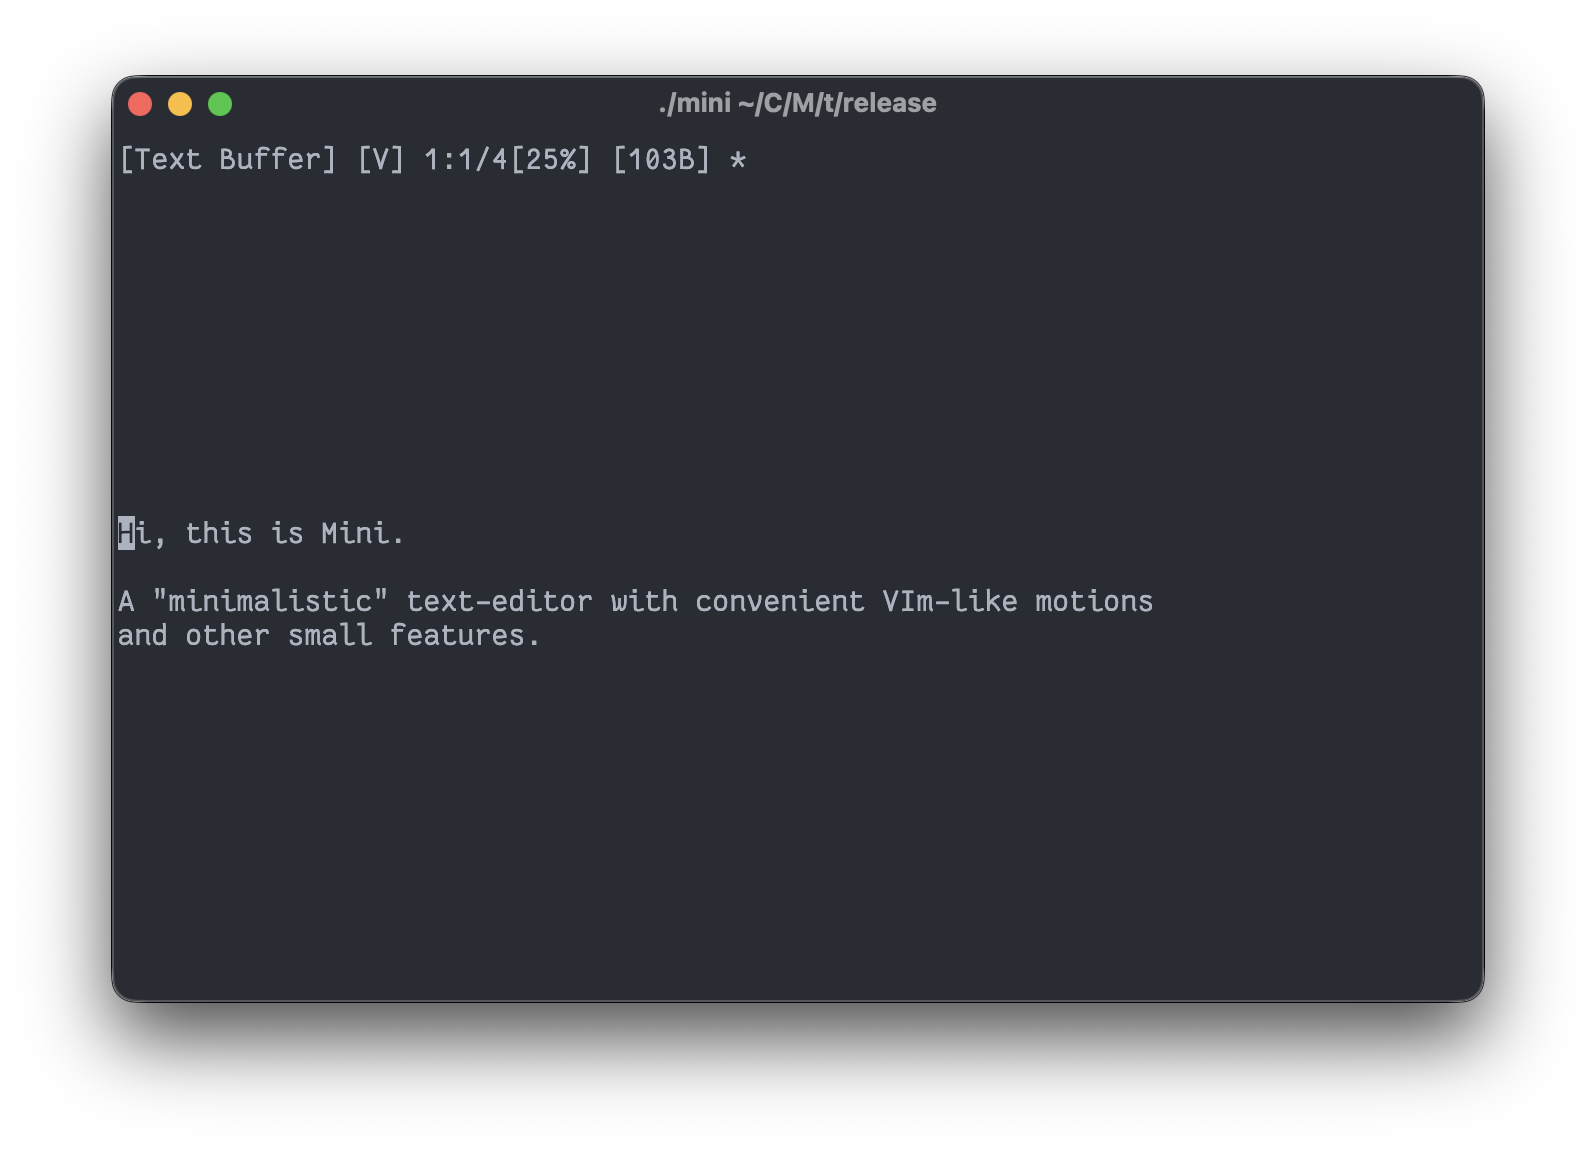
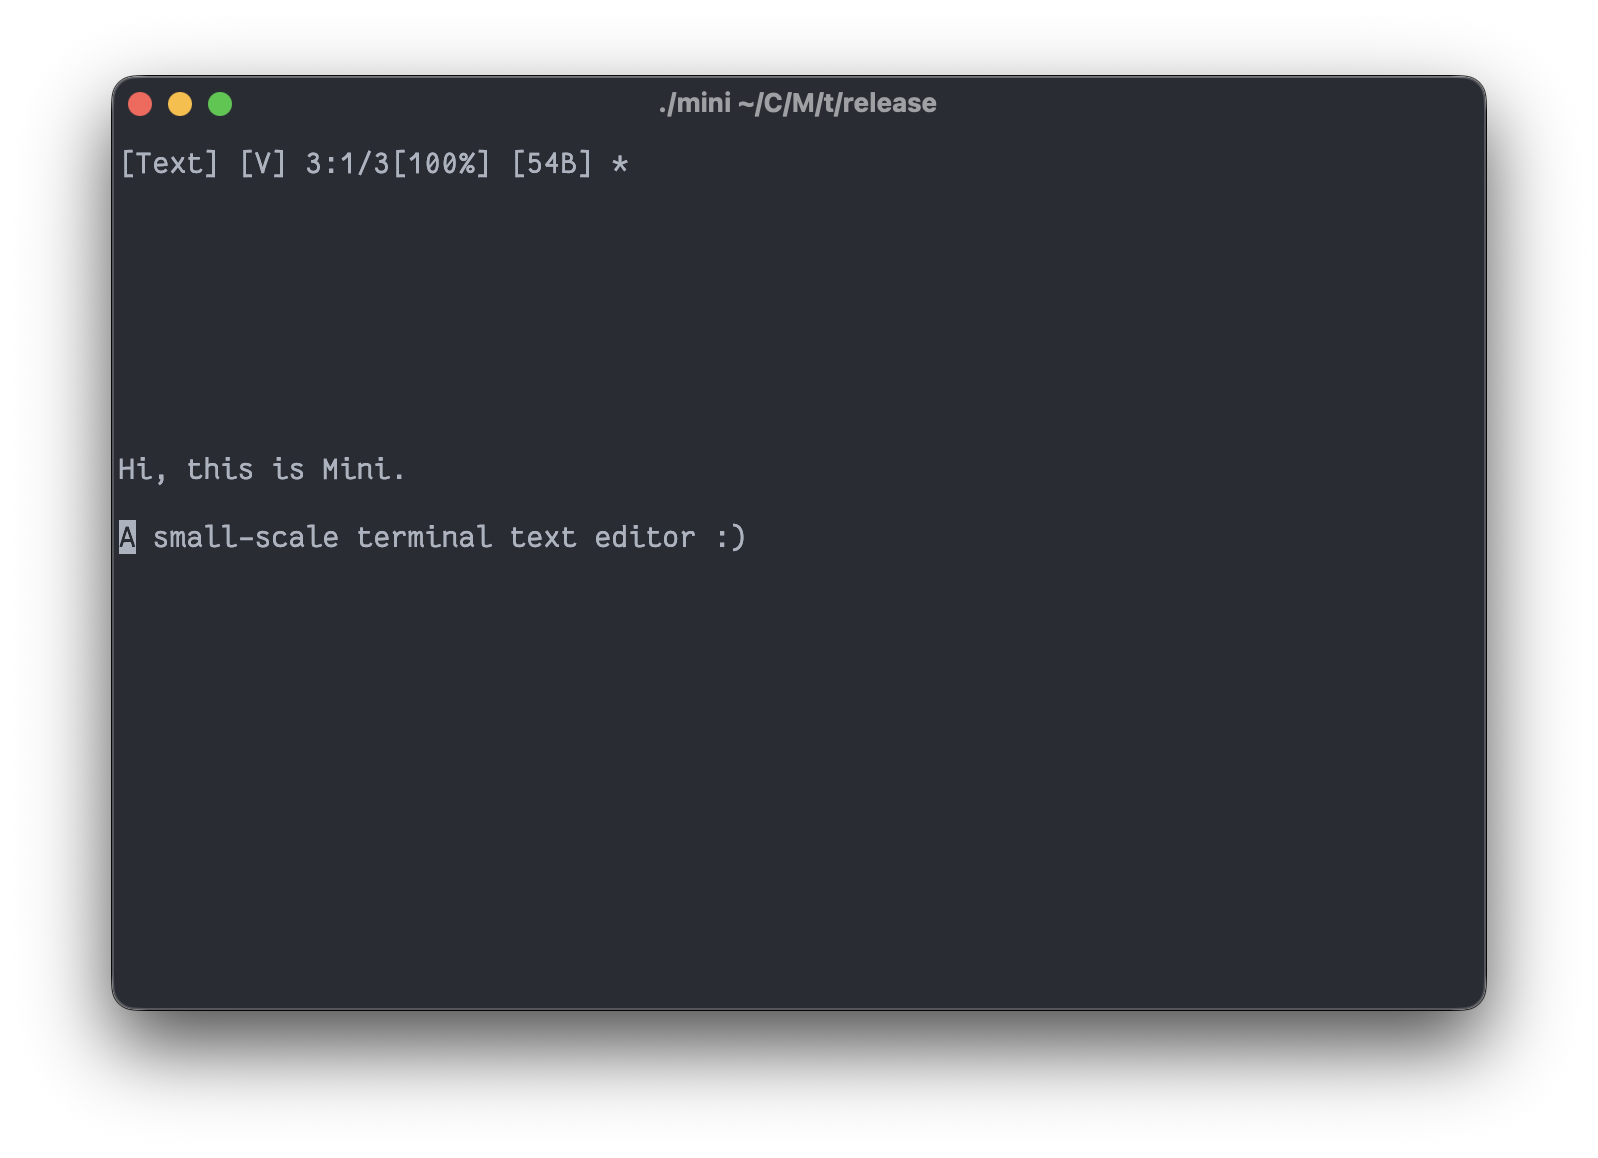
Improve info message and add inclusive deletion

diff --git a/src/main.rs b/src/main.rs
@@ -29,6 +29,51 @@ macro_rules! skip {
     }};
 }
 
+const INFO_BUFF: usize = 0;
+const TXT_BUFF: usize = 1;
+
+const INFO_MSG: &str = "Mini terminal text editor. Run it with a file(path) argument to open or create a file. Omit the file(path) to create a \"scratchpad\" buffer with no backing file.
+
+Motions:
+> Use motions to navigate the buffer. Type a number followed by a motion to execute it multiple times.
+- 'h' | 'j' | 'k' | 'l' to move the cursor
+- 'w' to skip to the next word
+- 'b' to go back one word
+- '<' | '>' to jump to the beginning/end of a line
+- '.' to jump to the matching opposite bracket
+- 'g' to go to the end of the file
+- 'G' to go to the start of the file
+
+Command Mode:
+> Issue commands to the editor using the command mode.
+Press space to enter command mode
+Press esc to exit command mode
+- 'q' to quit
+- '?' to see this message
+- 'w' to write the buffer to file
+- 'w <path>' to write this/all future writes to the specified path
+- 'o ?<path>' to open a file and replace the buffer (if the path is omitted a new \"scratchpad\" buffer with no backing file is created)
+- 'oo ?<path>' to open a file and replace the buffer, discarding unsaved changes (if the path is omitted a new \"scratchpad\" buffer with no backing file is created)
+
+Errors:
+> Display command errors.
+Press '?' to switch between the error and text buffer
+
+Selection:
+> Select text for deletion with the flexibility of all available motions.
+Press 'v' to start selection at the current cursor position, move the cursor using all available motions
+Press esc to stop selection
+- 'd' to delete the selection
+- 'D' to delete the selection including the character under the cursor
+
+Write Mode:
+> Insert text into the buffer.
+Press 'i' to enter write mode
+Press 'a' to enter write mode one character after the current
+Press 'o' to enter write mode one line under the current
+Press 'O' to enter write mode one line above the current
+Press 'esc' to exit write mode";
+
 #[allow(clippy::too_many_lines)]
 fn main() -> Result<(), std::io::Error> {
     let mut args = std::env::args();
@@ -36,36 +81,7 @@ fn main() -> Result<(), std::io::Error> {
 
     let mut file = if let Some(path) = args.next() {
         if path == "--help" {
-            println!(
-                " Mini terminal text editor, run with file(path) argument to open or create\n"
-            );
-            println!("   Type a number followed by a motion to execute it multiple times");
-            println!("   Press h | j | k | l to move the cursor");
-            println!("   Press w to skip to the next word");
-            println!("   Press b to go back one word");
-            println!("   Press < | > to jump to the beginning/end of a line");
-            println!("   Press . to jump to the matching opposite bracket");
-            println!("   Press e to switch between the error and text buffer");
-            println!("   Press space to enter command mode");
-            println!("     Write q to quit");
-            println!("     Write w to write the buffer to file");
-            println!("     Write w <path> to write this/all future writes to the specified path");
-            println!("     Write o <path> to open a file and replace the buffer");
-            println!(
-                "     Write oo <path> to open a file and replace the buffer, discarding unsaved changes"
-            );
-            println!("     Press esc to exit command mode");
-            println!("   Press v to start selection at the current cursor position");
-            println!("     Move cursor and press d to delete the selection");
-            println!("     Press esc to stop selection");
-            println!("   Press i to enter write mode");
-            println!("   Press a to enter write mode one character after the current");
-            println!("   Press o to enter write mode one line under the current");
-            println!("   Press O to enter write mode one line above the current");
-            println!("   Press g to go to the end of the file");
-            println!("   Press G to go to the start of the file");
-            println!("   Press esc to exit write mode");
-
+            println!("{INFO_MSG}");
             return Ok(());
         }
 
@@ -96,40 +112,40 @@ fn main() -> Result<(), std::io::Error> {
     // Init buffers
     let (width, height) = termion::terminal_size()?;
     let mut buffers = [
-        // Buffer 1 (Error)
+        // Buffer 1 (Info)
         Buffer::new(width as usize, height as usize, vec![String::new()], None),
-        // Buffer 2 (Default)
+        // Buffer 2 (Text)
         Buffer::new(width as usize, height as usize, line_buff, file),
     ];
-    let mut buffer = 1;
-    buffers[buffer].print_screen(&mut stdout, "Text Buffer")?;
+    let mut buffer = TXT_BUFF;
+    buffers[buffer].print_screen(&mut stdout, "Text")?;
 
     // Repeat buffer to execute motions multiple times
     let mut repeat_buff = String::new();
 
     for key in stdin.keys() {
         let (width, height) = termion::terminal_size()?;
-        for idx in 0..buffers.len() {
-            buffers[idx].update_screen_dimentions(width as usize, height as usize);
+        for buff in &mut buffers {
+            buff.update_screen_dimentions(width as usize, height as usize);
         }
 
         let key = key?;
         match buffers[buffer].mode() {
             Mode::View => match key {
                 // Can't edit error buffer
-                Key::Char('i') if buffer != 0 => buffers[buffer].change_mode(Mode::Write),
+                Key::Char('i') if buffer != INFO_BUFF => buffers[buffer].change_mode(Mode::Write),
                 // Can't edit error buffer
-                Key::Char('a') if buffer != 0 => {
+                Key::Char('a') if buffer != INFO_BUFF => {
                     buffers[buffer].move_cursor(CursorMove::Right, 1);
                     buffers[buffer].change_mode(Mode::Write);
                 }
                 // Can't edit error buffer
-                Key::Char('o') if buffer != 0 => {
+                Key::Char('o') if buffer != INFO_BUFF => {
                     buffers[buffer].insert_move_new_line_bellow();
                     buffers[buffer].change_mode(Mode::Write);
                 }
                 // Can't edit error buffer
-                Key::Char('O') if buffer != 0 => {
+                Key::Char('O') if buffer != INFO_BUFF => {
                     buffers[buffer].insert_move_new_line_above();
                     buffers[buffer].change_mode(Mode::Write);
                 }
@@ -145,15 +161,16 @@ fn main() -> Result<(), std::io::Error> {
                 Key::Char('g') => skip!(repeat_buff, buffers, buffer, jump_to_end),
                 Key::Char('G') => skip!(repeat_buff, buffers, buffer, jump_to_start),
                 // Can't command in error buffer
-                Key::Char(' ') if buffer != 0 => buffers[buffer].change_mode(Mode::Command),
-                Key::Char('e') if buffer == 0 => buffer = 1,
-                Key::Char('e') if buffer == 1 => buffer = 0,
+                Key::Char(' ') if buffer != INFO_BUFF => buffers[buffer].change_mode(Mode::Command),
+                Key::Char('?') if buffer == INFO_BUFF => buffer = TXT_BUFF,
+                Key::Char('?') if buffer == TXT_BUFF => buffer = INFO_BUFF,
                 Key::Char(ch) if ch.is_ascii_digit() => repeat_buff.push(ch),
                 // Can't select in error buffer
-                Key::Char('v') if buffer != 0 => buffers[buffer].set_select(),
+                Key::Char('v') if buffer != INFO_BUFF => buffers[buffer].set_select(),
                 Key::Esc => buffers[buffer].reset_select(),
                 // Can't delete in error buffer
-                Key::Char('d') if buffer != 0 => buffers[buffer].delete_selection(),
+                Key::Char('d') if buffer != INFO_BUFF => buffers[buffer].delete_selection(false),
+                Key::Char('D') if buffer != INFO_BUFF => buffers[buffer].delete_selection(true),
                 _ => {}
             },
             Mode::Write => match key {
@@ -178,28 +195,26 @@ fn main() -> Result<(), std::io::Error> {
 
                     match res {
                         util::CmdResult::Quit => break,
-                        util::CmdResult::Continue => {}
+                        // Reset error buffer on successful command
+                        util::CmdResult::Continue => buffers[INFO_BUFF].set_line_buff(""),
                         util::CmdResult::Error(err) => {
                             // Write error to error buffer
-                            buffer = 0;
+                            buffer = INFO_BUFF;
                             buffers[buffer].set_line_buff(&err);
                         }
                     }
                 }
                 Key::Char('\t') => buffers[buffer].write_cmd_tab(),
                 Key::Char(ch) => buffers[buffer].write_cmd_char(ch),
-                // Maybe support Delete key in the future
+                // TODO: support Delete key in the future
                 Key::Backspace => buffers[buffer].delete_cmd_char(),
                 _ => {}
             },
         }
 
         // Print new buffer after every input
-        if buffer == 0 {
-            buffers[buffer].print_screen(&mut stdout, "Error")?;
-        } else {
-            buffers[buffer].print_screen(&mut stdout, "Text Buffer")?;
-        }
+        let name = if buffer == INFO_BUFF { "Info" } else { "Text" };
+        buffers[buffer].print_screen(&mut stdout, name)?;
     }
 
     write!(stdout, "{ToMainScreen}")?;

diff --git a/src/buffer/edit.rs b/src/buffer/edit.rs
@@ -127,24 +127,28 @@ impl Buffer {
     }
 
     /// Deletes the text between the selection point and current cursor
-    pub fn delete_selection(&mut self) {
+    pub fn delete_selection(&mut self, inclusive: bool) {
         let Some(pos) = self.select else {
             return;
         };
 
-        let (start, end) = if pos <= self.txt_pos {
+        let (start, mut end) = if pos <= self.txt_pos {
             (pos, self.txt_pos)
         } else {
             (self.txt_pos, pos)
         };
 
+        if inclusive {
+            let line = &self.line_buff[end.y];
+            if end.x < line.chars().count() {
+                end.x += 1;
+            }
+        }
+
         if start.y == end.y {
             // Single line deletion
 
-            let Some(line) = self.line_buff.get_mut(start.y) else {
-                unreachable!("Impossible to not contain the requested line");
-            };
-
+            let line = &mut self.line_buff[start.y];
             let start_idx = line
                 .char_indices()
                 .nth(start.x)
@@ -159,9 +163,7 @@ impl Buffer {
             // Multiple lines were selected
 
             let (start_line, remaining_lines) = self.line_buff.split_at_mut(start.y + 1);
-            let Some(end_line) = remaining_lines.get(end.y - (start.y + 1)) else {
-                unreachable!("Impossible to not contain the requested line");
-            };
+            let end_line = &remaining_lines[end.y - (start.y + 1)];
             let tail = {
                 let start_idx = end_line
                     .char_indices()

diff --git a/src/buffer/print_screen.rs b/src/buffer/print_screen.rs
@@ -37,7 +37,7 @@ impl Buffer {
             Mode::Write => "W",
             Mode::Command => "C",
         };
-        let edited = if self.edited { '*' } else { ' ' };
+        // Plus 1 since text coordinates are 0 indexed
         let line = self.txt_pos.y + 1;
         let col = self.txt_pos.x + 1;
         let total = self.line_buff.len();
@@ -50,13 +50,16 @@ impl Buffer {
             "[{buff_name}] [{mode}] {line}:{col}/{total}[{percentage}%] [{size}B]",
         )?;
         if let Some(pos) = self.select {
+            // Plus 1 since text coordinates are 0 indexed
+            let line = pos.y + 1;
+            let col = pos.x + 1;
             write!(
                 &mut self.screen_buff[screen_idx],
-                " [Select {}:{}]",
-                pos.y + 1,
-                pos.x + 1
+                " [Selected {line}:{col}]"
             )?;
         }
+
+        let edited = if self.edited { '*' } else { ' ' };
         write!(&mut self.screen_buff[screen_idx], " {edited}")
     }
 

diff --git a/src/buffer.rs b/src/buffer.rs
@@ -115,6 +115,12 @@ impl Buffer {
     /// Sets the internal line buffer with new contents
     pub fn set_line_buff(&mut self, contents: &str) {
         let lines = contents.lines().count();
+        if lines == 0 {
+            // Line buffer always has at least one entry
+            self.line_buff.truncate(1);
+            self.line_buff[0].clear();
+            return;
+        }
 
         self.line_buff.resize(lines, String::new());
         for (idx, line) in contents.lines().enumerate() {

diff --git a/src/buffer/apply_cmd.rs b/src/buffer/apply_cmd.rs
@@ -1,4 +1,5 @@
 use crate::{
+    INFO_MSG,
     buffer::Buffer,
     util::{CmdResult, read_file},
 };
@@ -98,6 +99,7 @@ impl Buffer {
             "w" => self.__write(args),
             "o" => self.__open(args, false),
             "oo" => self.__open(args, true),
+            "?" => Ok(CmdResult::Error(INFO_MSG.to_string())),
             _ => Ok(CmdResult::Error(format!("Unrecognized command: '{cmd}'"))),
         }
     }

diff --git a/README.md b/README.md
@@ -7,40 +7,52 @@ A mini terminal based file editor. It has VIm-like motions and should fully supp
 The editor features an info line containing information about the current buffer, editing mode, cursor position, etc..
 ![Screenshot in editor](https://github.com/ComicalCache/Mini/blob/main/media/editor.png?raw=true)
 
-Errors are shown in a different buffer, reserved for errors which can be switched to.
-![Screenshot showing an error](https://github.com/ComicalCache/Mini/blob/main/media/error.png?raw=true)
-
-Commands (not motions) can be written after entering command mode.
-![Screenshot showing the command input](https://github.com/ComicalCache/Mini/blob/main/media/command.png?raw=true)
+Infos like errors and help are shown in a different buffer, reserved for infos.
+![Screenshot showing the help message](https://github.com/ComicalCache/Mini/blob/main/media/help.png?raw=true)
 
 ### Features
 `./mini --help` prints supported operations.
 ```
 > ./mini --help
- Mini terminal text editor, run with file(path) argument to open or create
+Mini terminal text editor. Run it with a file(path) argument to open or create a file. Omit the file(path) to create a "scratchpad" buffer with no backing file.
 
-   Type a number followed by a motion to execute it multiple times
-   Press h | j | k | l to move the cursor
-   Press w to skip to the next word
-   Press b to go back one word
-   Press < | > to jump to the beginning/end of a line
-   Press . to jump to the matching opposite bracket
-   Press e to switch between the error and text buffer
-   Press space to enter command mode
-     Write q to quit
-     Write w to write the buffer to file
-     Write w <path> to write this/all future writes to the specified path
-     Write o <path> to open a file and replace the buffer
-     Write oo <path> to open a file and replace the buffer, discarding unsaved changes
-     Press esc to exit command mode
-   Press v to start selection at the current cursor position
-     Move cursor and press d to delete the selection
-     Press esc to stop selection
-   Press i to enter write mode
-   Press a to enter write mode one character after the current
-   Press o to enter write mode one line under the current
-   Press O to enter write mode one line above the current
-   Press g to go to the end of the file
-   Press G to go to the start of the file
-   Press esc to exit write mode
+Motions:
+> Use motions to navigate the buffer. Type a number followed by a motion to execute it multiple times.
+- 'h' | 'j' | 'k' | 'l' to move the cursor
+- 'w' to skip to the next word
+- 'b' to go back one word
+- '<' | '>' to jump to the beginning/end of a line
+- '.' to jump to the matching opposite bracket
+- 'g' to go to the end of the file
+- 'G' to go to the start of the file
+
+Command Mode:
+> Issue commands to the editor using the command mode.
+Press space to enter command mode
+Press esc to exit command mode
+- 'q' to quit
+- '?' to see this message
+- 'w' to write the buffer to file
+- 'w <path>' to write this/all future writes to the specified path
+- 'o ?<path>' to open a file and replace the buffer (if the path is omitted a new "scratchpad" buffer with no backing file is created)
+- 'oo ?<path>' to open a file and replace the buffer, discarding unsaved changes (if the path is omitted a new "scratchpad" buffer with no backing file is created)
+
+Errors:
+> Display command errors.
+Press '?' to switch between the error and text buffer
+
+Selection:
+> Select text for deletion with the flexibility of all available motions.
+Press 'v' to start selection at the current cursor position, move the cursor using all available motions
+Press esc to stop selection
+- 'd' to delete the selection
+- 'D' to delete the selection including the character under the cursor
+
+Write Mode:
+> Insert text into the buffer.
+Press 'i' to enter write mode
+Press 'a' to enter write mode one character after the current
+Press 'o' to enter write mode one line under the current
+Press 'O' to enter write mode one line above the current
+Press 'esc' to exit write mode
 ```
